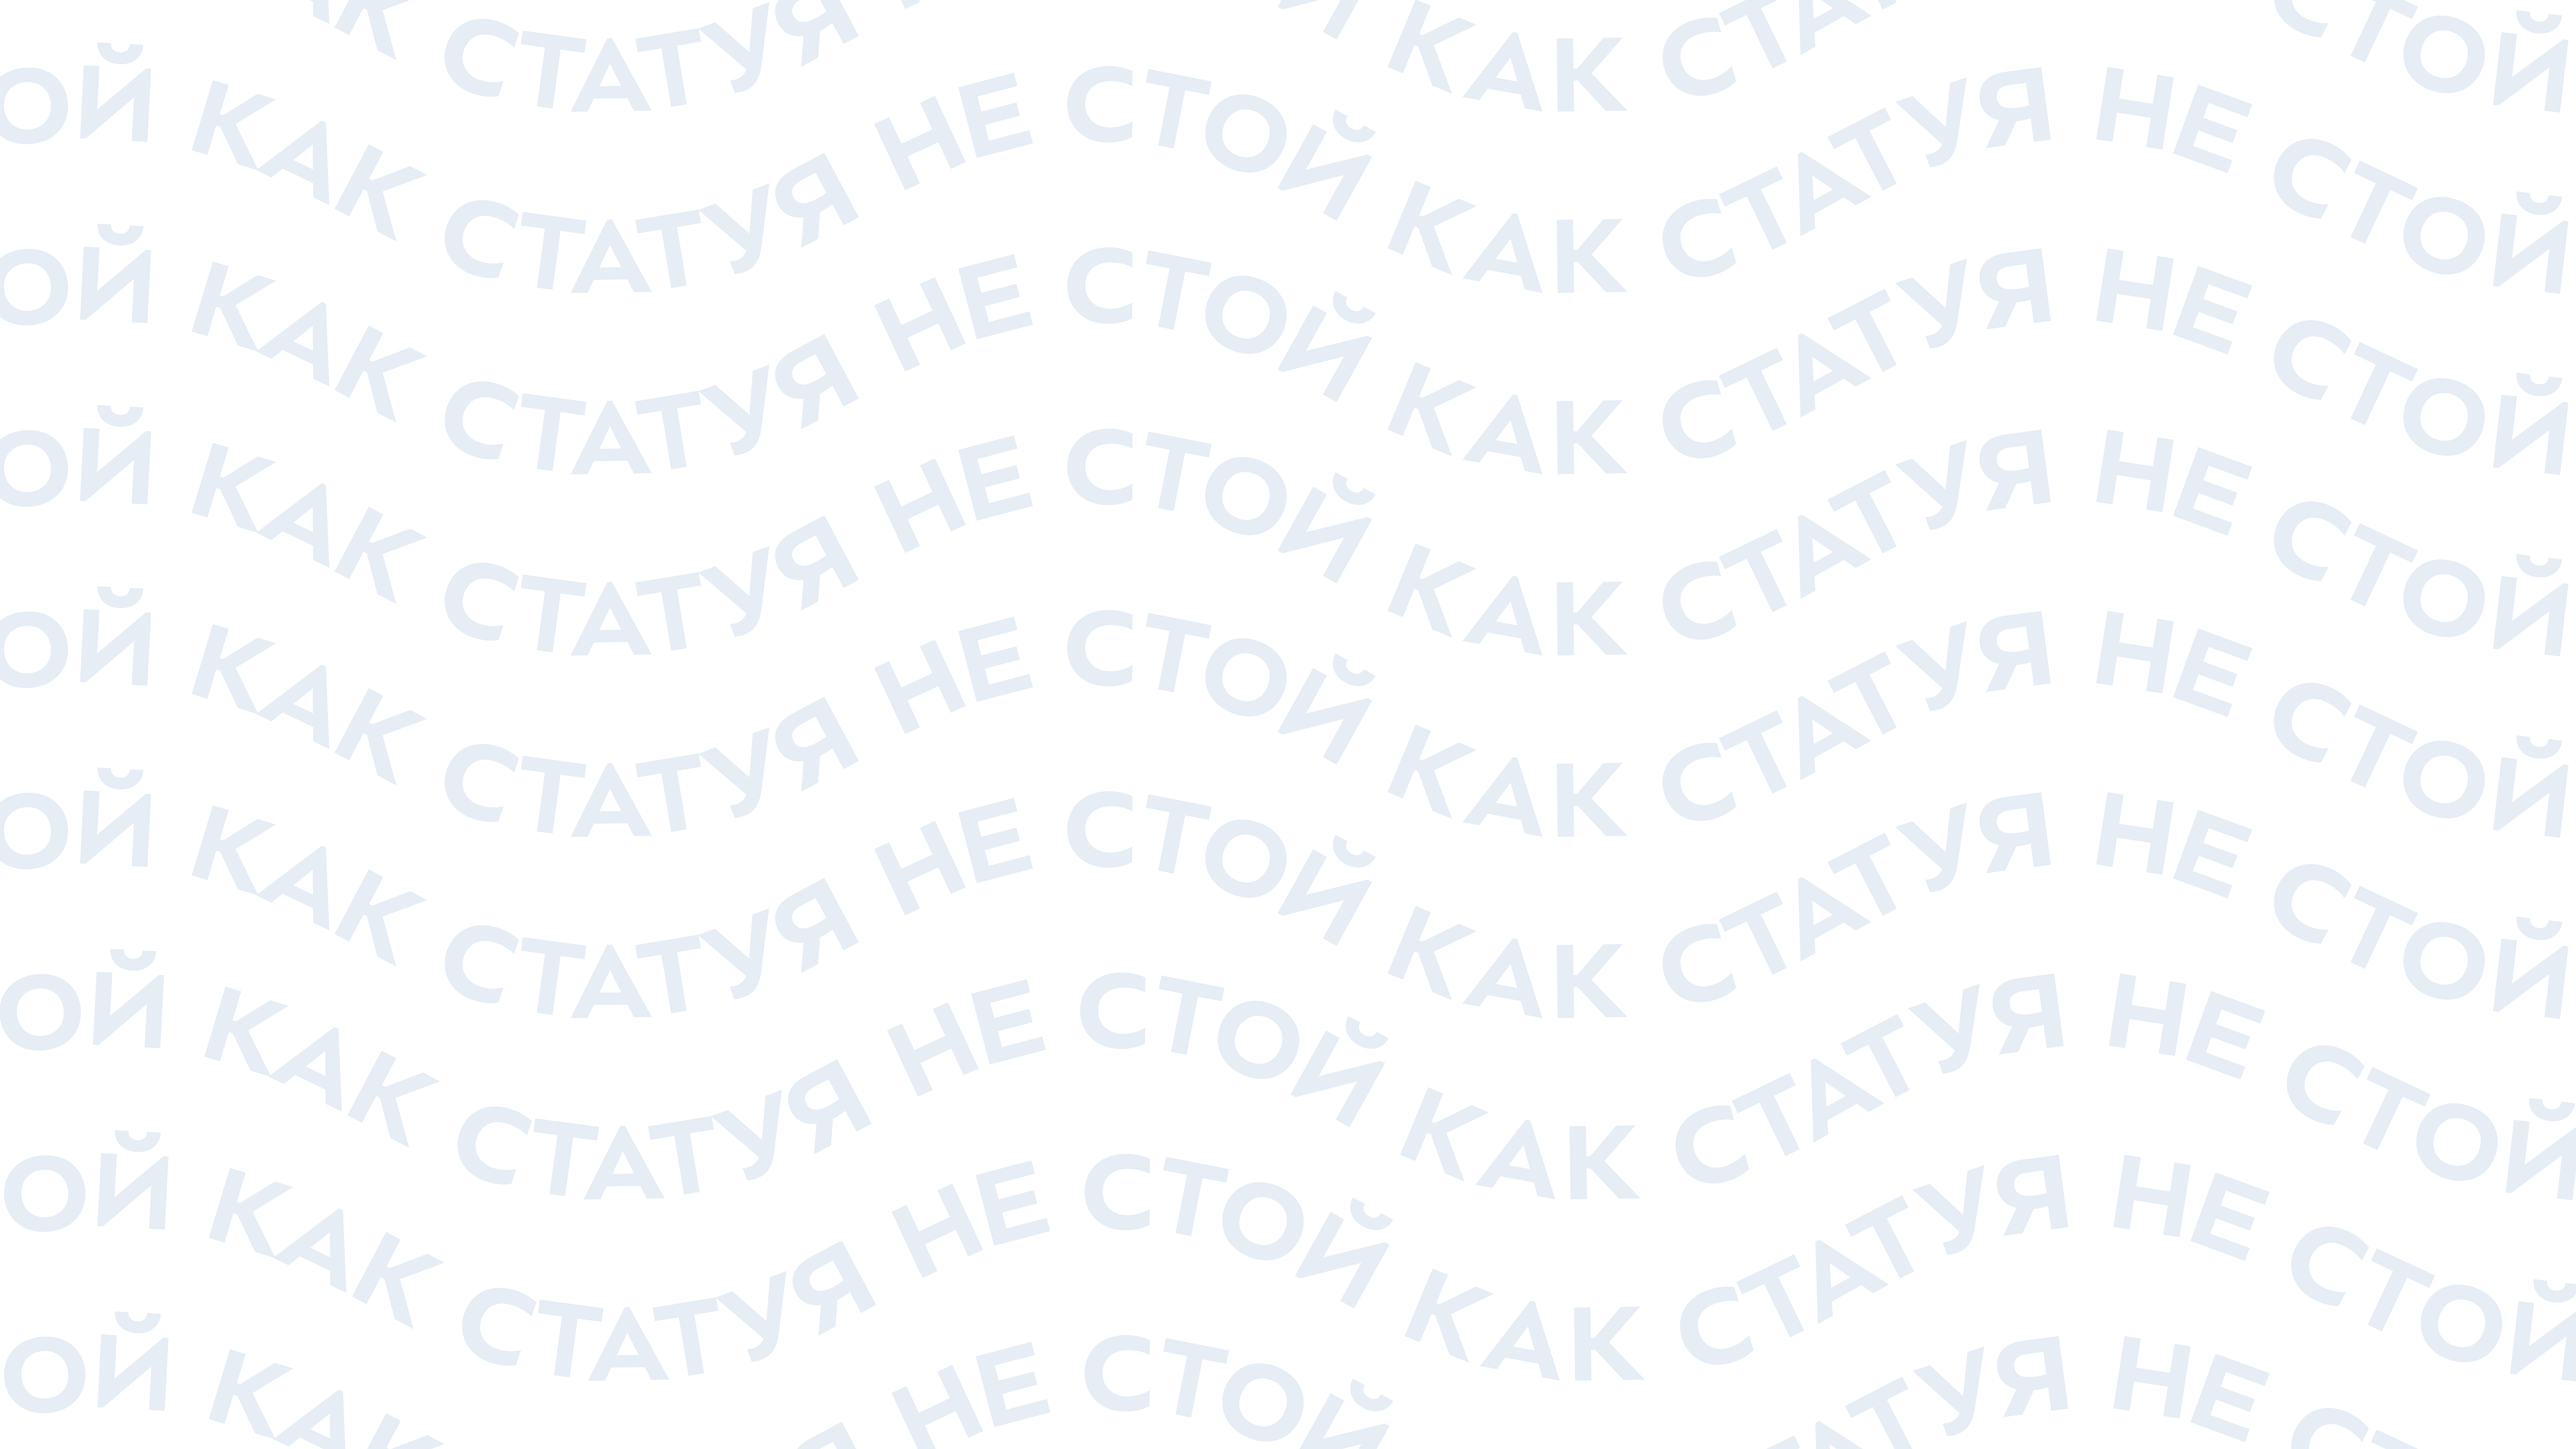
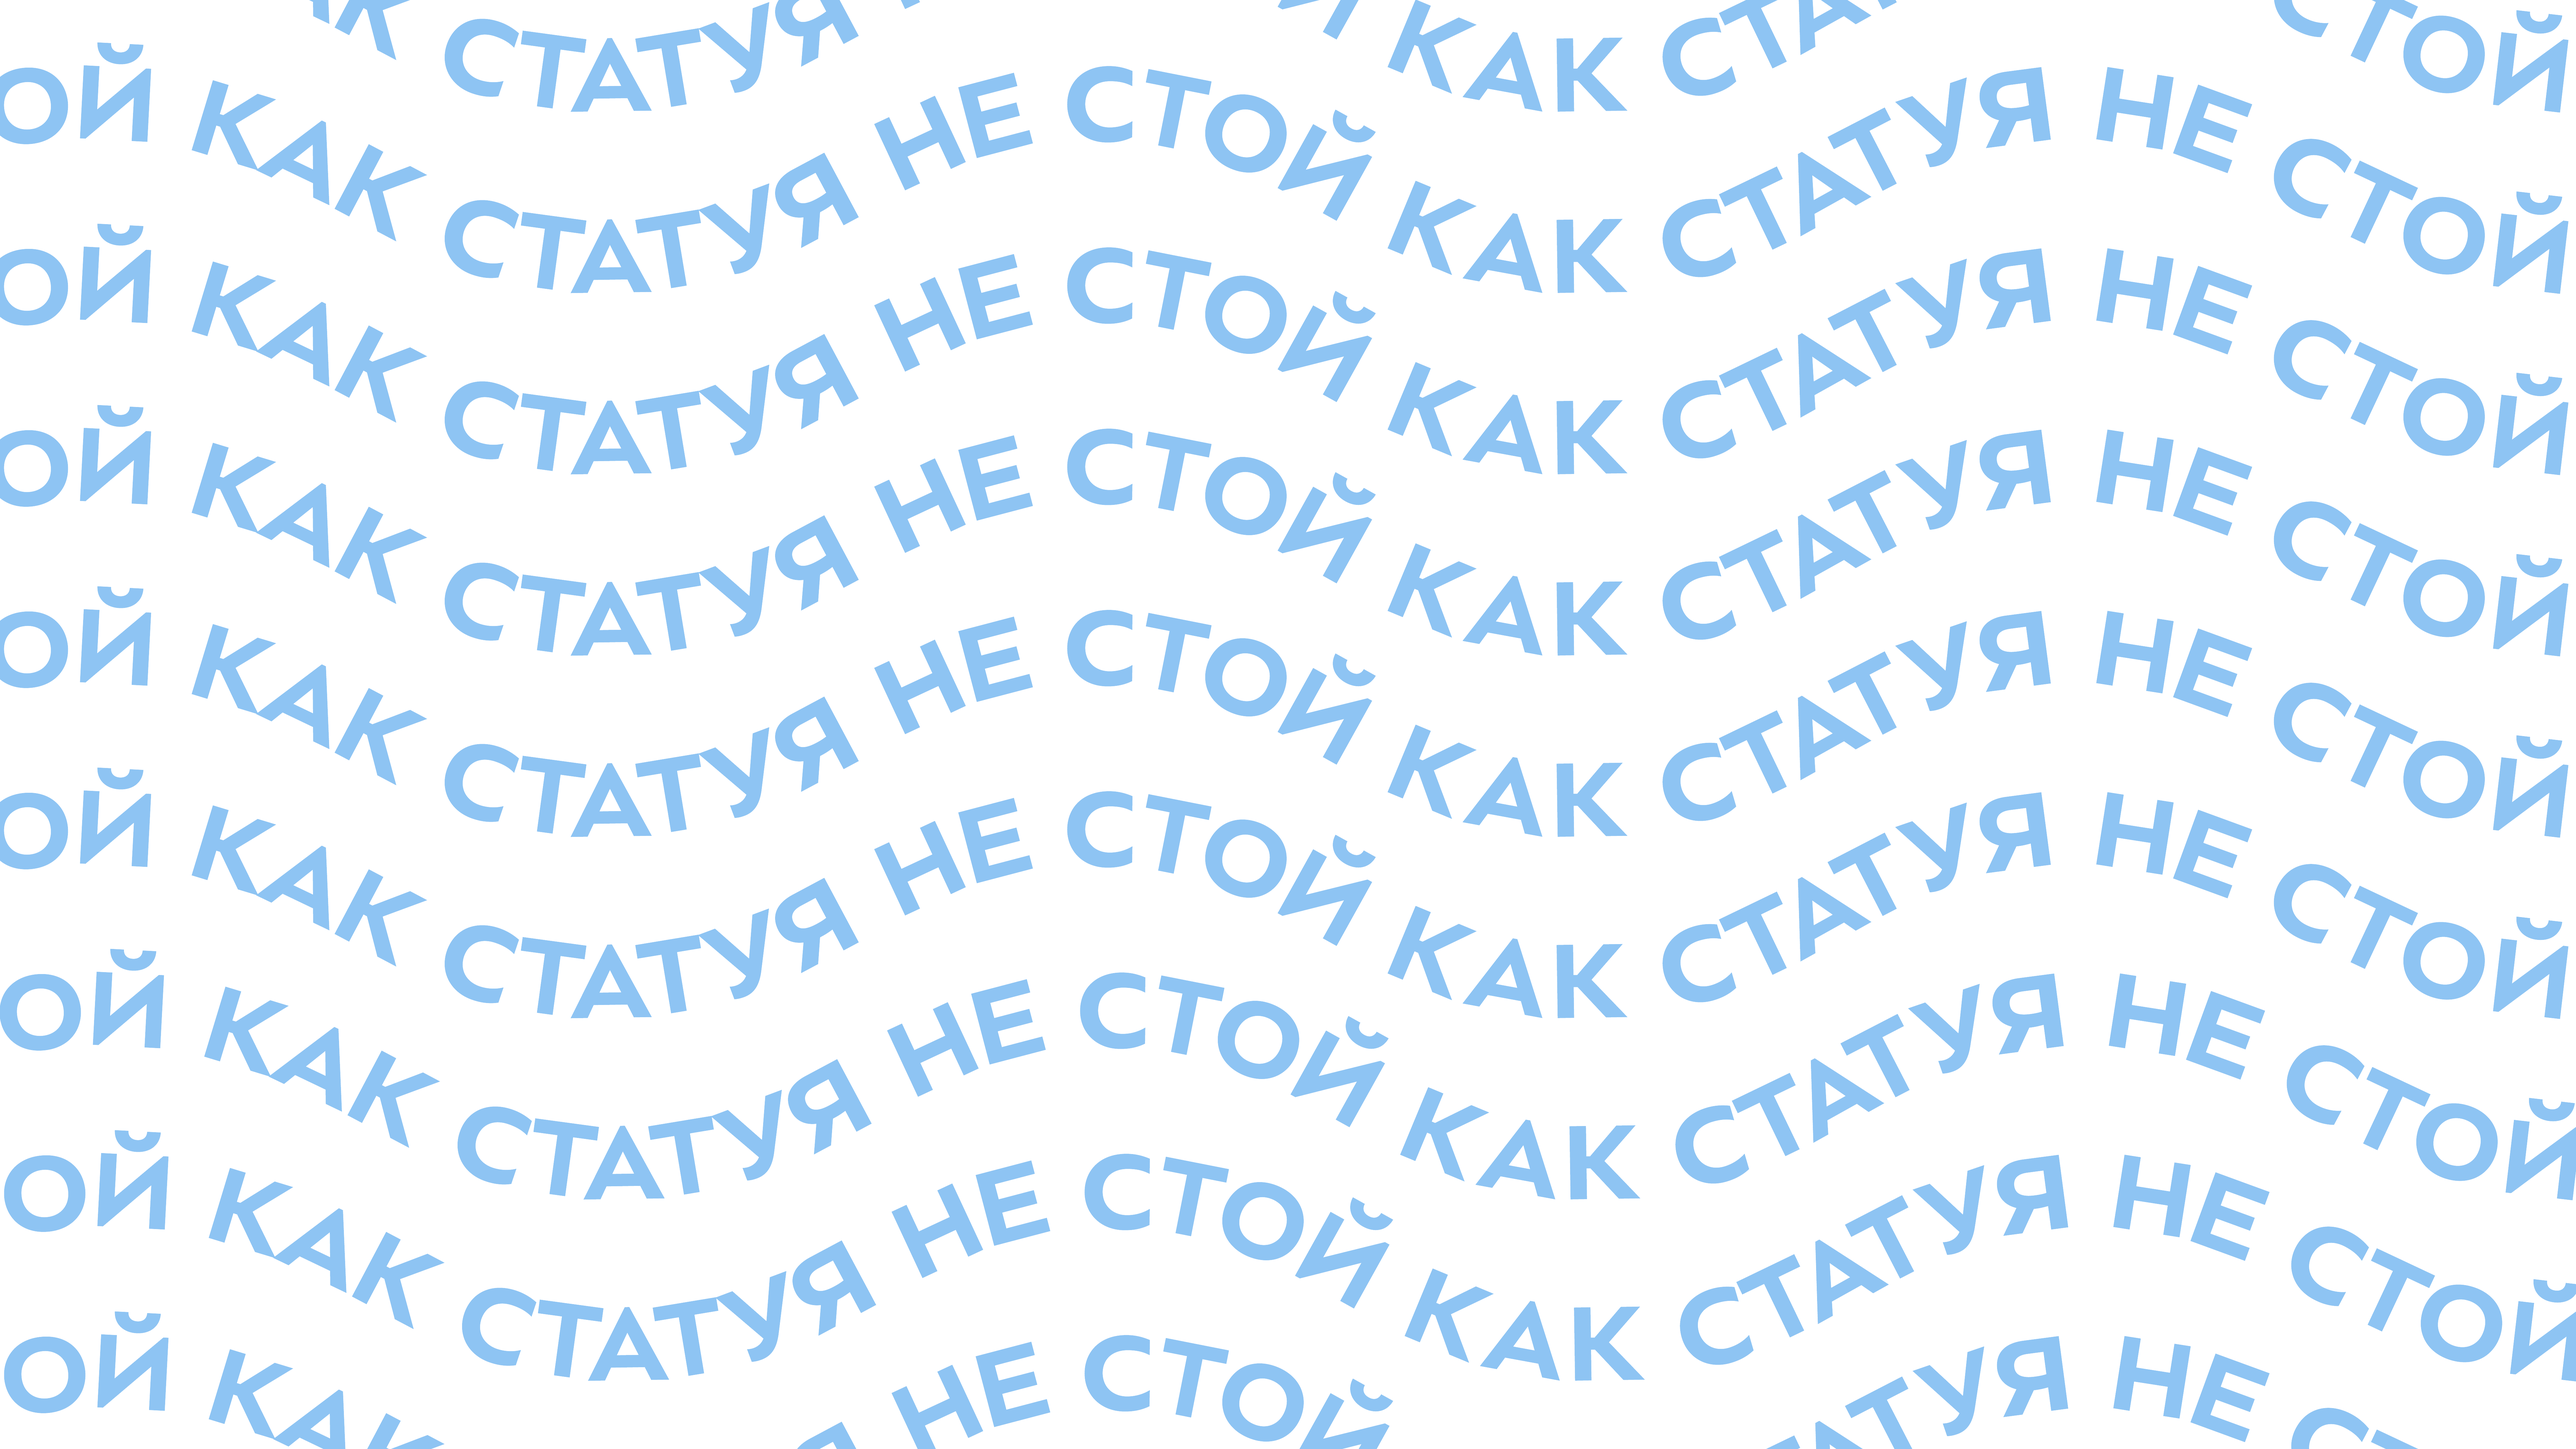
Цвета по брендбуку +фон по ТЗ

diff --git a/src/App.vue b/src/App.vue
@@ -13,20 +13,30 @@
   position fixed
   width 100%
   height 100%
-  background colorEmp2Disabled
+  background colorBgLightMax
 .background-text-image
   position fixed
   width 100%
   height 100%
   object-fit cover
+  opacity 0.5
 .bauman-image
   position fixed
   height 100%
   bottom -6%
+  left -100px
   object-fit contain
   overflow visible
-  filter invert() hue-rotate(180deg) contrast(2)
-  opacity .5
+  opacity 1
+.logo
+  position fixed
+  object-fit contain
+  overflow visible
+  right 0
+  bottom 0
+  justify-content right
+  height 80px
+  filter brightness(0.1875)
 
 .wrapper
   width 100%
@@ -40,9 +50,9 @@
 
 <template>
   <div class="bg"></div>
-  <img class="background-text-image" src="../src/res/images/BackgroundPattern.png" alt="Background">
+  <img class="background-text-image" src="../src/res/images/BackgroundPatternSmaller.png" alt="Background">
   <img class="bauman-image" src="../src/res/images/Bauman.png" alt="Bauman">
-
+  <img src="./res/images/Gerbs.png" class="logo">
   <div class="wrapper">
     <router-view v-slot="{ Component }">
       <transition name="scale-in">
